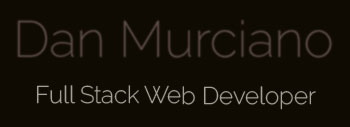
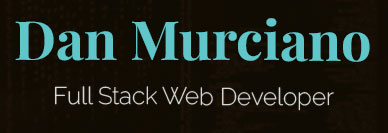
Version 2

diff --git a/styles/styles.css b/styles/styles.css
@@ -1,9 +1,8 @@
 /* Googole Fonts */
-@import url('https://fonts.googleapis.com/css2?family=Work+Sans:wght@100&display=swap');
 @import url('https://fonts.googleapis.com/css2?family=Raleway:wght@300&display=swap');
-@import url('https://fonts.googleapis.com/css2?family=Lato:wght@100&display=swap');
 @import url('https://fonts.googleapis.com/css2?family=Open+Sans:wght@300&display=swap');
 @import url('https://fonts.googleapis.com/css2?family=Nunito:wght@200;300;400;600;700&display=swap');
+@import url('https://fonts.googleapis.com/css2?family=Playfair+Display:wght@600&display=swap');
 
 
 
@@ -26,6 +25,7 @@
   margin: 0 !important;
   padding: 0 !important;
   background-color: white;
+  border-bottom: 1px solid #e3e3e3;
 }
 
 .nav-center {
@@ -70,7 +70,6 @@
   text-align: center !important;
   background-image: url("/images/banner_back.jpg");
   background-size: cover;
-  /* height: 480px; */
   background-position: 50% 50%;
 }
 
@@ -80,51 +79,47 @@
   max-width: 350px;
   margin: auto !important;
   vertical-align: middle !important;
-  padding: calc(119px + 3vw) 0;
+  padding: calc(120px + 6vw) 0;
 }
 
 .home-main {
   text-align: center;
-  /* max-width: 760px; */
   margin: auto;
-  /* padding: 0 20px; */
 }
 
-.section-about {
-  background-color: #545454;
-  margin: 0 auto 100px;
-  padding-top: 90px;
-  padding-bottom: 90px;
-}
 
 .section {
   margin: 0 auto 100px;
-  padding-top: 90px;
-  max-width: 640px;
+  padding: calc(32px + 3vw) 10px 0 10px;
+  max-width: 660px;
 }
 
 .sub-section {
   margin: 0 auto 100px;
-  padding-top: 30px;
+  padding: 30px 10px 0 10px;
   background-color: white;
+  max-width: 660px;
 }
 
 
 
 h2 {
-  font-size: calc(26.32px + 0.4vw);
+  font-size: calc(28.48px + 0.6vw);
+  font-family: 'Playfair Display', sans-serif;
+  color: #97e8e3;
+  margin: 0 auto 20px auto;
 }
 
 
 .aboutText-div {
-  max-width: 560px;
+  max-width: 520px;
   padding: 90px 0 0;
   margin: auto;
 }
 
 
 .aboutText {
-  color: #757575;
+  color: #383838;
   font-size: 16px;
   font-size: calc(12.16px + 0.2vw);
   font-family: 'Open Sans', sans-serif;
@@ -163,9 +158,9 @@ h2 {
 }
 
 .project h3 {
-  font-size: 22px;
-  font-size: calc(18.16px + 0.2vw);
-  font-family: 'Nunito', Arial, Helvetica, sans-serif;
+  font-size: 24px;
+  font-size: calc(20.16px + 0.2vw);
+  font-family: 'Open Sans', sans-serif;
   font-weight: 200;
 }
 
@@ -180,6 +175,7 @@ h2 {
   flex: 0 0 12%;
   max-width: 60px;
   padding: 0 !important;
+  margin: auto !important;
 }
 
 .icon {
@@ -205,7 +201,7 @@ h2 {
   padding: 0 3.2vw;
   font-size: 16px;
   font-size: calc(12.16px + 0.2vw);
-  color: #757575;
+  color: #383838;
   font-family: 'Open Sans', sans-serif;
   font-weight: 200;
   line-height: 1.8rem;
@@ -240,7 +236,7 @@ h2 {
   margin: 150px auto;
   padding: 20px !important;
   background-color: #120c01;
-  color: #9c907c;
+  color: #97e8e3;
   font-family: "raleway";
   text-align: center;
   font-size: 15px;
@@ -248,7 +244,7 @@ h2 {
 }
 
 
-/* Home Design */
+/* Project Page */
 
 .breadcrumb-div {
   padding: 6px 0;

diff --git a/pages/index.js b/pages/index.js
@@ -19,11 +19,12 @@ export default function Home() {
             <div class="aboutText-div" id="about">
               <h2> About </h2>
               <p class="aboutText"> I’m a self-taught web developer with a background in video and audio editing.
-              I enjoy discerning and analyzing problems, and coming up with solutions for them.
-              I'm also interested in the visual side, and I'm always aiming at creating designs that are unique and combine both aesthetics and functionality. </p>
+              Whether it's building a UI component, or carefully planning a database with particular sets of data and attributes,
+              I enjoy analyzing a problem and breaking it down to its core components, employing a somewhat scientific approach to the process.
+              I'm also interested in the visual side, and I tend to prefer designs that are clean and elegant, with a good balance of aesthetics and functionality. </p>
             </div>
             <div class="image-dan">
-              <Image className="image-dan" circular src="images/dan_image4.jpg" />
+              <Image className="image-dan" circular src="images/dan_image.jpg" />
             </div>
           </div>
 

diff --git a/styles/globals.css b/styles/globals.css
@@ -17,11 +17,6 @@ a {
 }
 
 
-h2 {
-  font-size: 32px;
-  font-weight: 300;
-}
-
 .container-fluid {
   padding: 0;
 }
